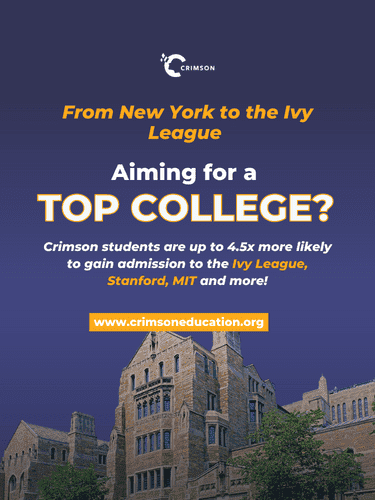
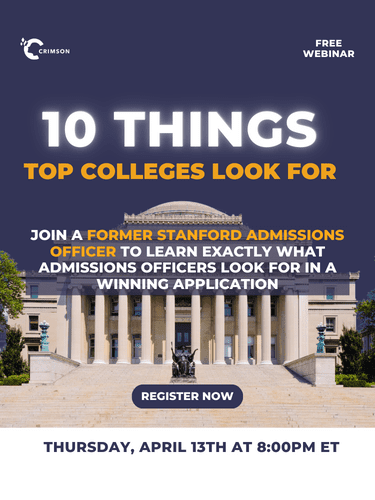
Use new crimson education ad

diff --git a/advertisements.ts b/advertisements.ts
@@ -9,10 +9,10 @@ const advertisements = [
 		image_src: "/images/ads/dont_sweat_the_essay.png",
 		url: "https://www.dontsweattheessay.com/?utm_source=Stuyvesant&utm_medium=SpectatorWeb&utm_campaign=Spring2022",
 	},
-	// {
-	// 	name: "Crimson Education",
-	// 	image_src: "/images/ads/crimson_education.png",
-	// 	url: "https://www.crimsoneducation.org/us/",
-	// },
+	{
+		name: "Crimson Education",
+		image_src: "/images/ads/crimson_education.png",
+		url: "https://www.crimsoneducation.org/us/campaign/april-13-us-10-things-top-colleges-look-for-with-martin-walsh-registration/",
+	},
 ];
 export default advertisements;
